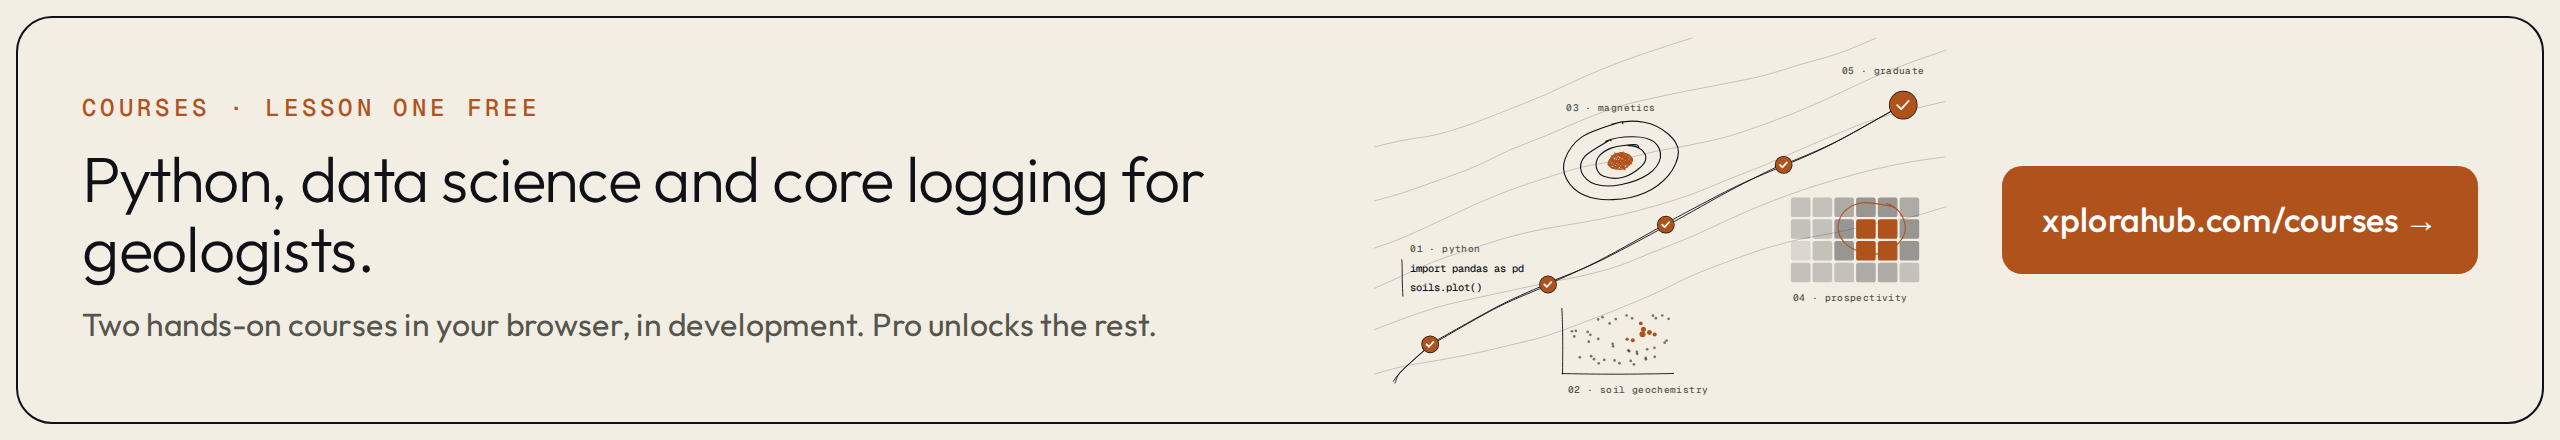
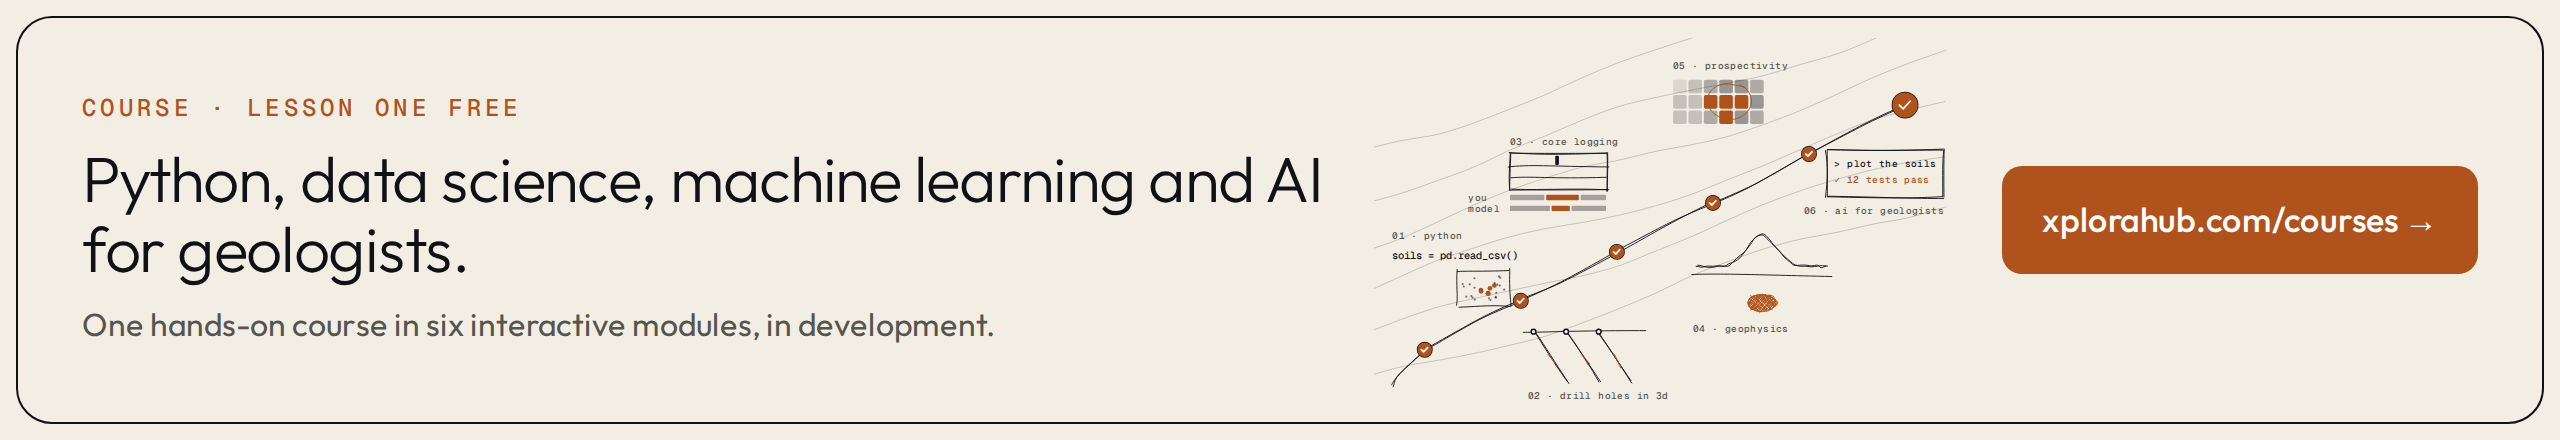
Profile: one course for geologists

diff --git a/profile/README.md b/profile/README.md
@@ -2,7 +2,7 @@
 
 **[XploraHub](https://xplorahub.com)** is an online community for mineral exploration and mining technology. Members show the tools they build and the field tests they run, and geologists, geophysicists, engineers and data scientists question them in the open.
 
-<a href="https://xplorahub.com/courses?ref=github-profile"><img src="assets/courses.png" alt="Courses, lesson one free: Python, data science and core logging for geologists. Two hands-on courses in your browser, in development. xplorahub.com/courses" width="100%"></a>
+<a href="https://xplorahub.com/courses?ref=github-profile"><img src="assets/courses.png" alt="Course, lesson one free: Python, data science, machine learning and AI for geologists. One hands-on course in six interactive modules, in development. xplorahub.com/courses" width="100%"></a>
 
 <a href="https://xplorahub.com/competitions?ref=github-profile"><img src="assets/competitions.png" alt="Competitions, free to enter: a blind test for exploration methods. Synthetic geology with hidden deposits. Round 1: prospectivity mapping. xplorahub.com/competitions" width="100%"></a>
 
@@ -19,7 +19,7 @@
 | | |
 |---|---|
 | [**The feed**](https://xplorahub.com/feed) | New tools, field tests and questions, ranked by members' votes |
-| [**Courses**](https://xplorahub.com/courses) | Python, data science and machine learning for geologists, and virtual core logging on real core (in development) |
+| [**Course**](https://xplorahub.com/courses) | Python, data science, machine learning and AI for geologists, in six interactive modules from 3D drill holes to core logging (in development) |
 | [**Competitions**](https://xplorahub.com/competitions) | A blind test for exploration methods on synthetic geology, starting with prospectivity mapping (in development) |
 | [**Experts**](https://xplorahub.com/directory) | Members' expert profiles, built from hits and endorsements |
 | [**Technology companies**](https://xplorahub.com/directory/organisations) | The companies building exploration and mining technology |
